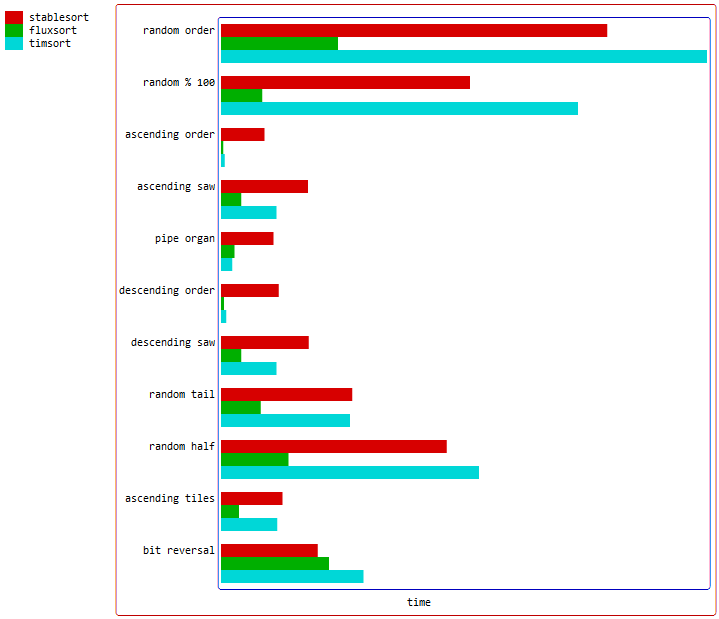
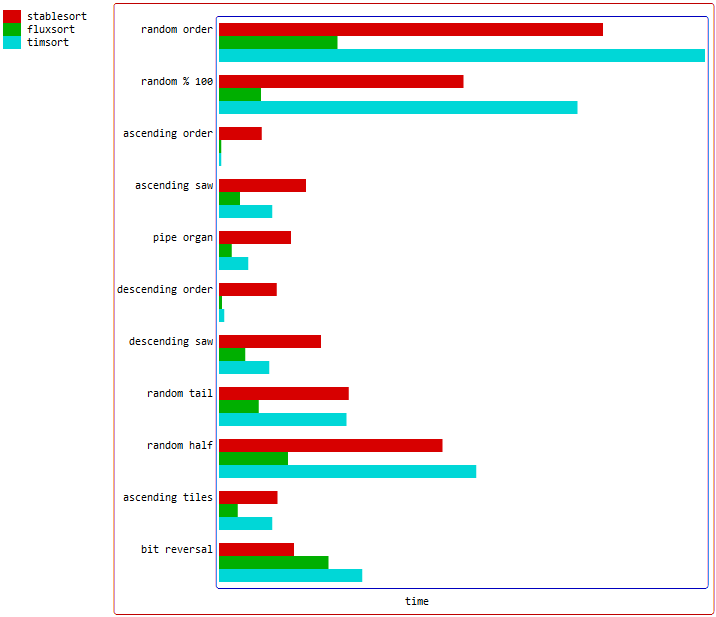
1.1.5.4

diff --git a/src/bench.c b/src/bench.c
@@ -1,5 +1,5 @@
 /*
-	Copyright (C) 2014-2022 Igor van den Hoven ivdhoven@gmail.com
+	Copyright (C) 2014-2023 Igor van den Hoven ivdhoven@gmail.com
 */
 
 /*
@@ -43,7 +43,7 @@
 
 //#define cmp(a,b) (*(a) > *(b)) // uncomment for fast primitive comparisons
 
-char *sorts[] = { "*", "qsort", "fluxsort", "quadsort" };
+char *sorts[] = { "*", "qsort", "fluxsort" };
 
 #if __has_include("blitsort.h")
   #include "blitsort.h" // curl "https://raw.githubusercontent.com/scandum/blitsort/master/src/blitsort.{c,h}" -o "blitsort.#1"
@@ -364,7 +364,7 @@ void test_sort(void *array, void *unsorted, void *valid, int minimum, int maximu
 				case 's' + 'k' * 32 + 'a' * 1024: swap = malloc(max * size); if (size == sizeof(int)) ska_sort_copy(pta, pta + max, (int *) swap); else if (size == sizeof(long long)) ska_sort_copy(ptla, ptla + max, (long long *) swap); else repetitions = 0; free(swap); break;
   #endif
   #ifdef GFX_TIMSORT_HPP
-				case 't' + 'i' * 32 + 'm' * 1024: if (size == sizeof(int)) gfx::timsort(pta, pta + max, cpp_cmp_int); else if (size == sizeof(long long)) gfx::timsort(ptla, ptla + max); else gfx::timsort(ptda, ptda + max); break;
+				case 't' + 'i' * 32 + 'm' * 1024: if (size == sizeof(int)) gfx::timsort(pta, pta + max/*, cpp_cmp_int*/); else if (size == sizeof(long long)) gfx::timsort(ptla, ptla + max); else gfx::timsort(ptda, ptda + max); break;
   #endif
 #endif
 				default:
@@ -537,7 +537,7 @@ void test_sort(void *array, void *unsorted, void *valid, int minimum, int maximu
 					char **ptsa = (char **) array;
 					char **ptsv = (char **) valid;
 
-					printf("         validate: array[%d] != valid[%d]. (%s vs %s) %s\n", cnt, cnt, (char *) ptsa[cnt], (char *) ptsv[cnt], !strcmp((char *) ptsa[cnt], (char *) ptsv[cnt]) ? "unstable" : "");
+					printf("         validate: array[%d] != valid[%d]. (%s vs %s) %s\n", cnt, cnt, (char *) ptsa[cnt], (char *) ptsv[cnt], !strcmp((char *) ptsa[cnt], (char *) ptsv[cnt]) ? "\e[1;31munstable\e[0m" : "");
 					break;
 				}
 				if (cmpf == cmp_long_ptr)
@@ -545,9 +545,18 @@ void test_sort(void *array, void *unsorted, void *valid, int minimum, int maximu
 					long long **ptla = (long long **) array;
 					long long **ptlv = (long long **) valid;
 
-					printf("         validate: array[%d] != valid[%d]. (%lld vs %lld) %s\n", cnt, cnt, (long long) ptla[cnt], (long long) ptlv[cnt], ((long long) ptla[cnt] != (long long) ptlv[cnt]) ? "unstable" : "");
+					printf("         validate: array[%d] != valid[%d]. (%lld vs %lld) %s\n", cnt, cnt, *ptla[cnt], *ptlv[cnt], (*ptla[cnt] == *ptlv[cnt]) ? "\e[1;31munstable\e[0m" : "");
 					break;
 				}
+				if (cmpf == cmp_int_ptr)
+				{
+					int **ptia = (int **) array;
+					int **ptiv = (int **) valid;
+
+					printf("         validate: array[%d] != valid[%d]. (%d vs %d) %s\n", cnt, cnt, *ptia[cnt], *ptiv[cnt], (*ptia[cnt] == *ptiv[cnt]) ? "\e[1;31munstable\e[0m" : "");
+					break;
+				}
+
 				printf("         validate: array[%d] != valid[%d]. (%lld vs %lld\n", cnt, cnt, ptla[cnt], ptlv[cnt]);
 				break;
 			}
@@ -691,7 +700,7 @@ int main(int argc, char **argv)
 	int samples = 10;
 	int repetitions = 1;
 	int seed = 0;
-	int cnt, rnd, last;
+	int cnt, sum, rnd, last;
 	size_t mem;
 	int *a_array, *r_array, *v_array;
 	char dist[40];
@@ -972,13 +981,13 @@ int main(int argc, char **argv)
 	}
 	run_test(a_array, r_array, v_array, max, max, samples, repetitions, 0, "random % 100", sizeof(int), cmp_int);
 
-
 	// ascending
 
-	for (cnt = 0 ; cnt < mem ; cnt++)
+	for (cnt = sum = 0 ; cnt < mem ; cnt++)
 	{
-		r_array[cnt] = cnt;
+		r_array[cnt] = sum; sum += rand() % 5;
 	}
+
 	run_test(a_array, r_array, v_array, max, max, samples, repetitions, 0, "ascending order", sizeof(int), cmp_int);
 
 	// ascending saw
@@ -997,37 +1006,53 @@ int main(int argc, char **argv)
 
 	// pipe organ
 
-	for (cnt = 0 ; cnt < max / 2 ; cnt++)
+	for (cnt = 0 ; cnt < max ; cnt++)
 	{
-		r_array[cnt] = cnt * 10;
+		r_array[cnt] = rand();
 	}
 
-	for (cnt = max / 2 ; cnt < max ; cnt++)
+	quadsort(r_array + quad0, half1, sizeof(int), cmp_int);
+	qsort(r_array + half1, half2, sizeof(int), cmp_rev);
+
+	for (cnt = half1 + 1 ; cnt < max ; cnt++)
 	{
-		r_array[cnt] = max * 10 - cnt * 10;
+		if (r_array[cnt] >= r_array[cnt - 1])
+		{
+			r_array[cnt] = r_array[cnt - 1] - 1;
+		}
 	}
 
 	run_test(a_array, r_array, v_array, max, max, samples, repetitions, repetitions, "pipe organ", sizeof(int), cmp_int);
 
 	// descending
 
-	for (cnt = 0 ; cnt < mem ; cnt++)
+	for (cnt = 0, sum = mem * 10 ; cnt < mem ; cnt++)
 	{
-		r_array[cnt] = (mem - cnt);
+		r_array[cnt] = sum; sum -= 1 + rand() % 5;
 	}
 	run_test(a_array, r_array, v_array, max, max, samples, repetitions, 0, "descending order", sizeof(int), cmp_int);
 
 	// descending saw
 
-	for (cnt = 0 ; cnt < max ; cnt++)
+	for (cnt = sum = 0 ; cnt < max ; cnt++)
 	{
 		r_array[cnt] = rand();
 	}
 
-	quadsort(r_array + quad0, quad1, sizeof(int), cmp_rev);
-	quadsort(r_array + quad1, quad2, sizeof(int), cmp_rev);
-	quadsort(r_array + half1, quad3, sizeof(int), cmp_rev);
-	quadsort(r_array + span3, quad4, sizeof(int), cmp_rev);
+	qsort(r_array + quad0, quad1, sizeof(int), cmp_rev);
+	qsort(r_array + quad1, quad2, sizeof(int), cmp_rev);
+	qsort(r_array + half1, quad3, sizeof(int), cmp_rev);
+	qsort(r_array + span3, quad4, sizeof(int), cmp_rev);
+
+	for (cnt = 1 ; cnt < max ; cnt++)
+	{
+		if (cnt == quad1 + 1 || cnt == half1 + 1 || cnt == span3 + 1) continue;
+
+		if (r_array[cnt] >= r_array[cnt - 1])
+		{
+			r_array[cnt] = r_array[cnt - 1] - 1;
+		}
+	}
 
 	run_test(a_array, r_array, v_array, max, max, samples, repetitions, repetitions, "descending saw", sizeof(int), cmp_int);
 
@@ -1065,7 +1090,7 @@ int main(int argc, char **argv)
 			r_array[cnt] = 33554432 + cnt;
 		}
 	}
-	run_test(a_array, r_array, v_array, max, max, samples, repetitions, 0, "ascending tiles", sizeof(int), cmp_stable);
+	run_test(a_array, r_array, v_array, max, max, samples, repetitions, 0, "ascending tiles", sizeof(int), cmp_int);
 
 	// bit-reversal
 
